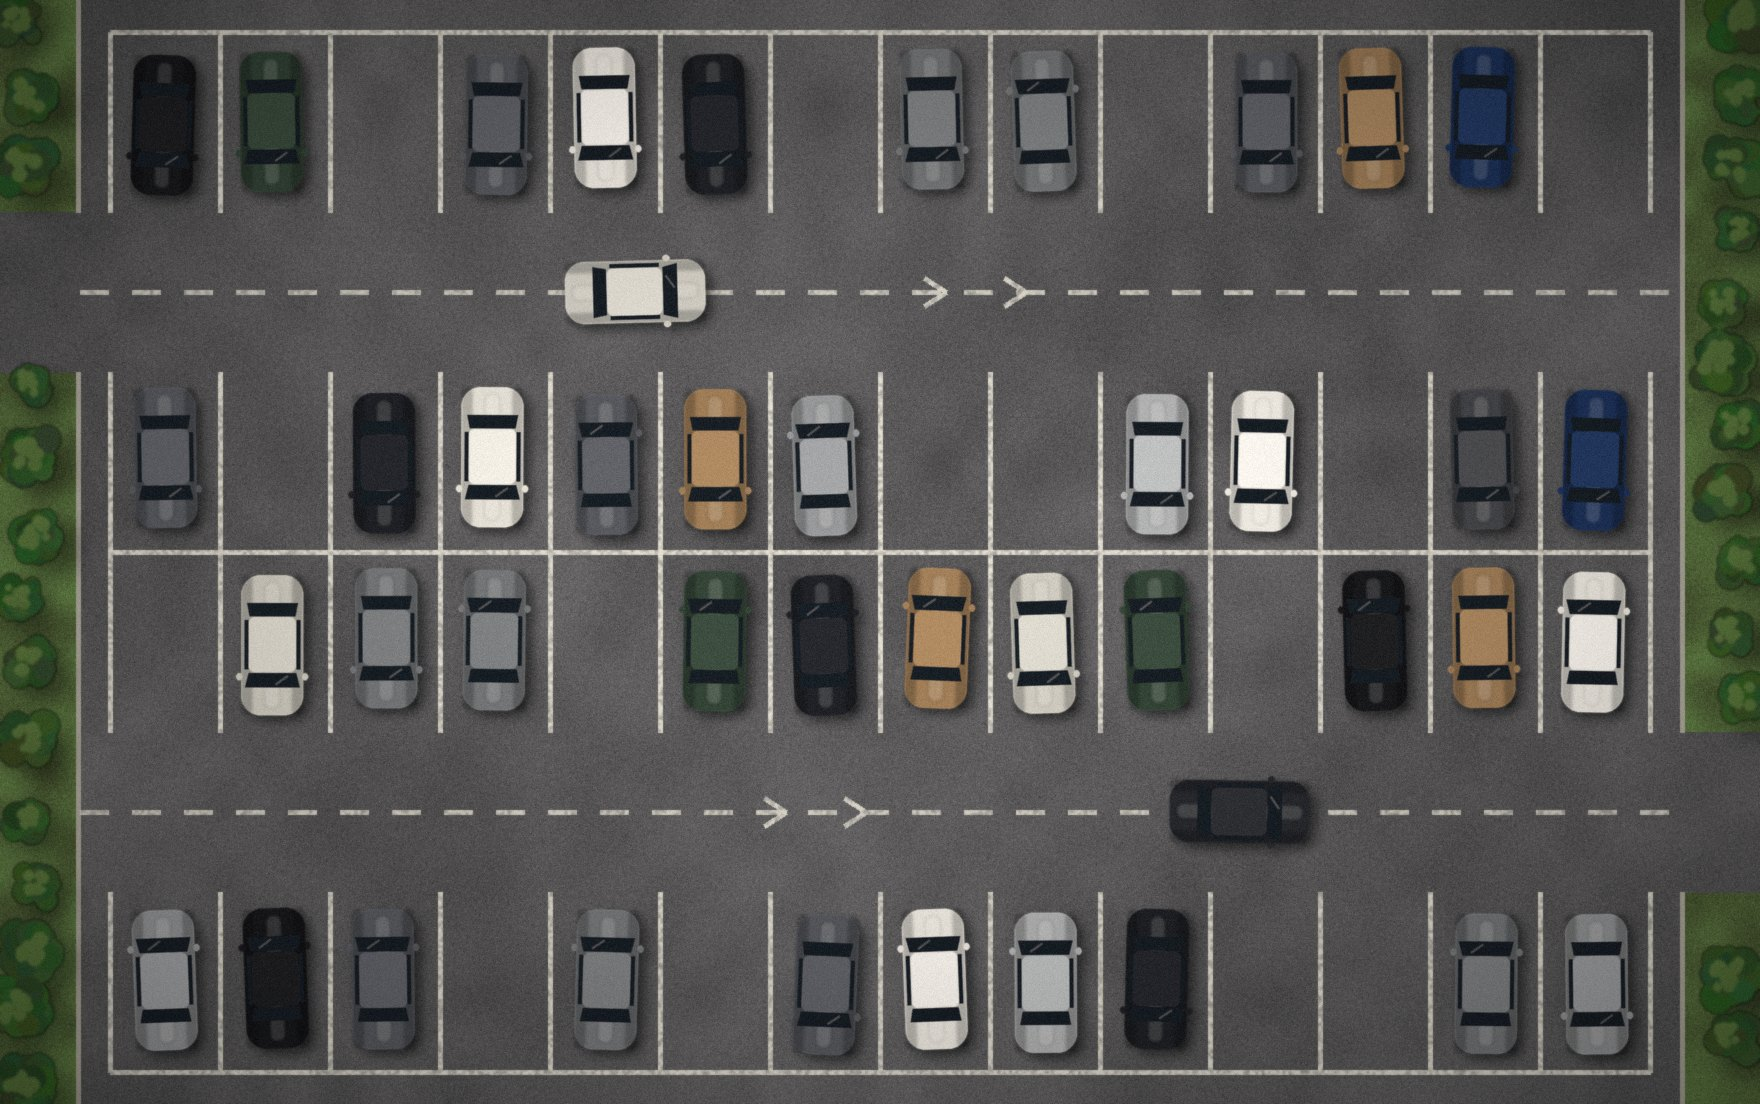
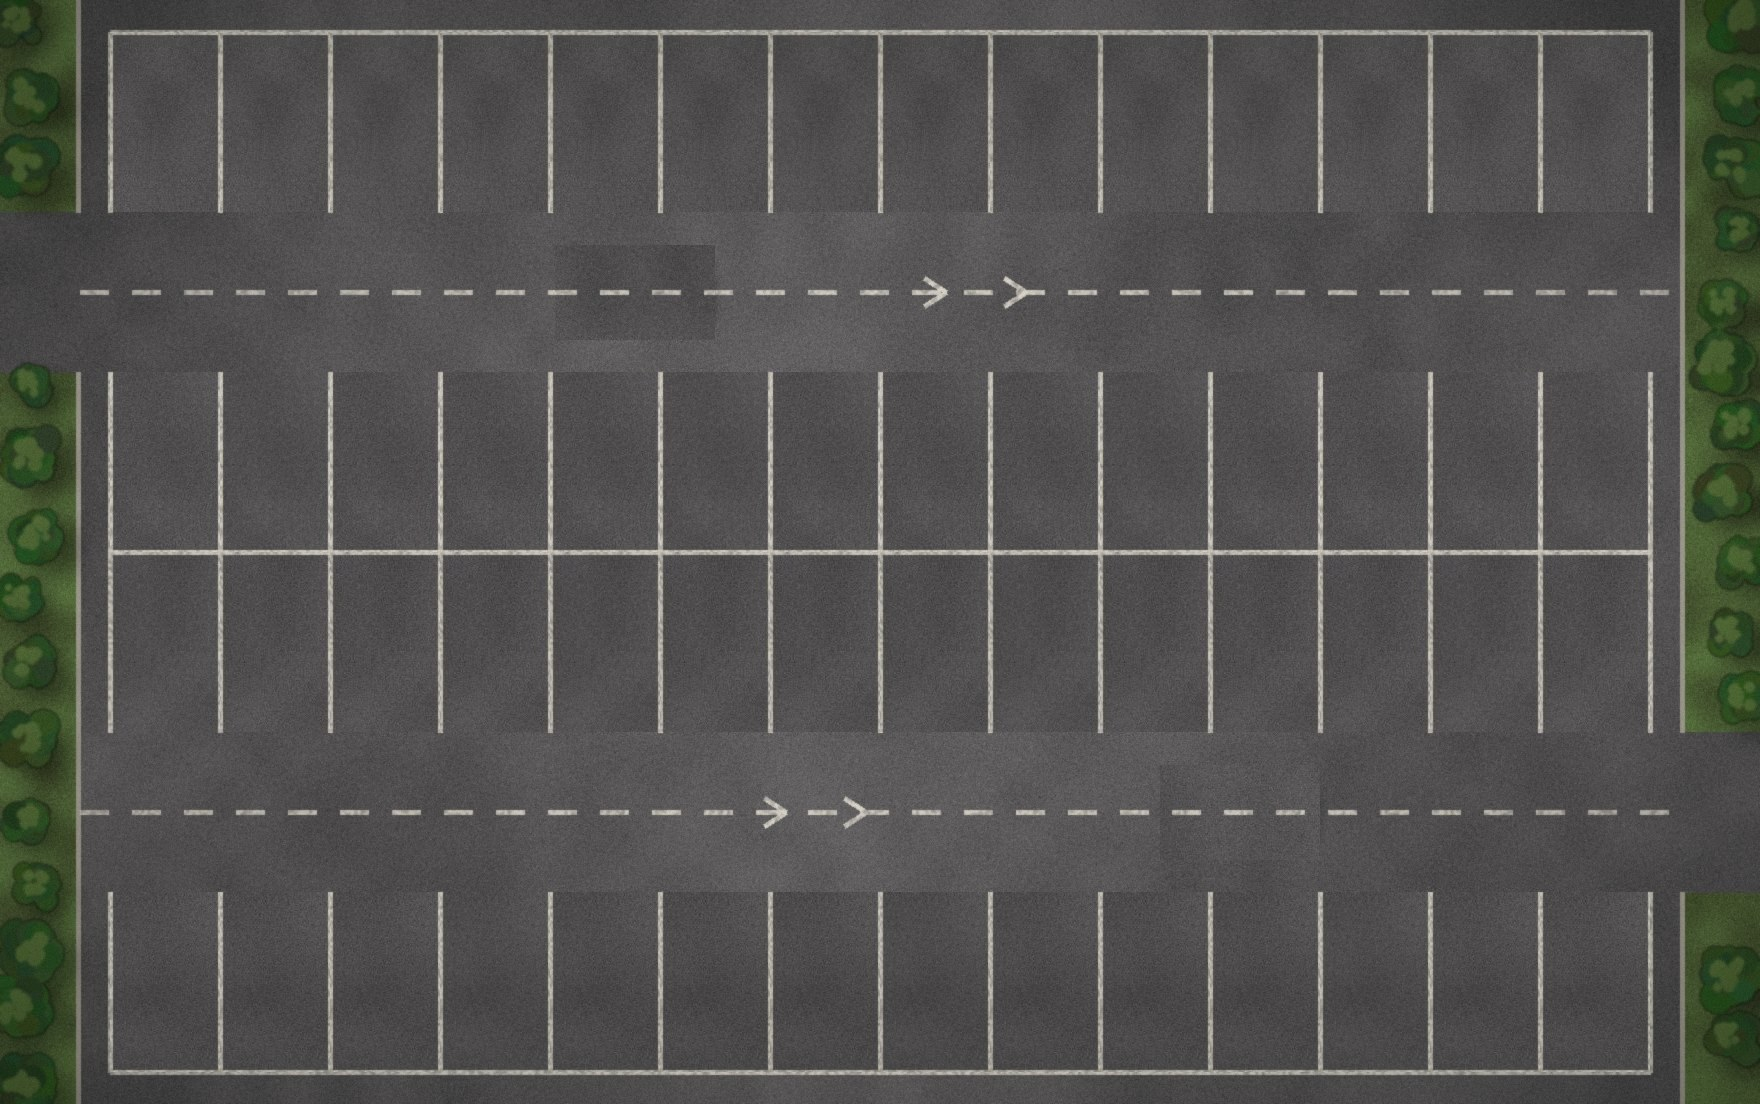
Remove demo traffic: only real sensor data, empty aerial photo with car overlay
Claude-Session: https://claude.ai/code/session_018XJQgKgjN5PXosCJ8962Gn

diff --git a/backend/app/web/templates/plan.html b/backend/app/web/templates/plan.html
@@ -140,11 +140,11 @@
   </div>
   <div class="table-wrap">
     <div class="photo">
-      <img src="/static/img/parking-aerien.jpg" alt="{{ t('plan.photo_alt') }}">
+      <img src="/static/img/parking-aerien.jpg?v={{ asset_v }}" alt="{{ t('plan.photo_alt') }}">
       {% for row in rows %}{% for b in row if b.photo_x is not none %}
         <a href="{{ base }}&filter={{ flt }}&bay={{ b.id }}" class="{% if detail and detail.id == b.id %}selected{% endif %}"
            style="left:{{ b.photo_x }}%;top:{{ b.photo_y }}%;width:6.25%;height:16.3%"
-           aria-label="{{ t('plan.bay') }} {{ b.number }}"><span style="{{ 'bottom:3px' if b.plan_row in (1, 3) else 'top:3px' }}">{{ b.number }}</span></a>
+           aria-label="{{ t('plan.bay') }} {{ b.number }}">{% if b.is_occupied %}<img class="car" src="/static/img/car-row{{ b.plan_row or 1 }}.jpg?v={{ asset_v }}" alt="">{% endif %}<span style="{{ 'bottom:3px' if b.plan_row in (1, 3) else 'top:3px' }}">{{ b.number }}</span></a>
       {% endfor %}{% endfor %}
     </div>
   </div>

diff --git a/backend/app/web/static/css/app.css b/backend/app/web/static/css/app.css
@@ -142,6 +142,7 @@ table.data .actions { display: flex; gap: 6px; justify-content: flex-end; }
 .photo { position: relative; min-width: 760px; border-radius: 8px; overflow: hidden; border: 1px solid #000; }
 .photo img { display: block; width: 100%; height: auto; }
 .photo a { position: absolute; box-sizing: border-box; border-radius: 4px; }
+.photo a img.car { position: absolute; inset: 0; width: 100%; height: 100%; }
 .photo a span { position: absolute; left: 3px; font-family: var(--mono); font-size: 11px; font-weight: 600; padding: 3px 4px; border-radius: 3px; color: #fff; background: rgba(0,0,0,.72); line-height: 1; }
 .photo a.selected { border: 3px solid #fff; box-shadow: 0 0 0 2px #000; }
 

diff --git a/backend/app/cli.py b/backend/app/cli.py
@@ -2,6 +2,7 @@
 
     python -m app.cli seed-demo                         # load the demo data of the mockup
     python -m app.cli demo-sensors                      # reset the prototype sensor inventory (3 x 100)
+    python -m app.cli clear-demo-traffic                # remove the simulated cars, sessions, alarms, payments
     python -m app.cli create-admin EMAIL "Full Name"    # asks for the password
     python -m app.cli new-controller P1 CTRL-04 "Armoire Parking 4"   # prints the Pi key once
     python -m app.cli bay-labels P1 EXT labels.pdf      # QR code stickers scanned by the Intel Park app
@@ -35,7 +36,13 @@ def _run_sql(name: str) -> None:
 def seed_demo() -> None:
     _run_sql("seed_demo.sql")
     _run_sql("demo_sensors.sql")
+    _run_sql("demo_clear_traffic.sql")
     print("Demo data loaded. Staff password: ChangeMe-2026! (change it).")
+
+
+def clear_demo_traffic() -> None:
+    _run_sql("demo_clear_traffic.sql")
+    print("Simulated traffic removed: every bay is free, no session, alarm, payment or reservation left.")
 
 
 def demo_sensors() -> None:
@@ -123,6 +130,7 @@ def main() -> None:
     sub = parser.add_subparsers(dest="cmd", required=True)
     sub.add_parser("seed-demo")
     sub.add_parser("demo-sensors")
+    sub.add_parser("clear-demo-traffic")
     p = sub.add_parser("create-admin")
     p.add_argument("email")
     p.add_argument("full_name")
@@ -141,6 +149,8 @@ def main() -> None:
         seed_demo()
     elif args.cmd == "demo-sensors":
         demo_sensors()
+    elif args.cmd == "clear-demo-traffic":
+        clear_demo_traffic()
     elif args.cmd == "create-admin":
         create_admin(args.email, args.full_name, args.locale)
     elif args.cmd == "bay-labels":
